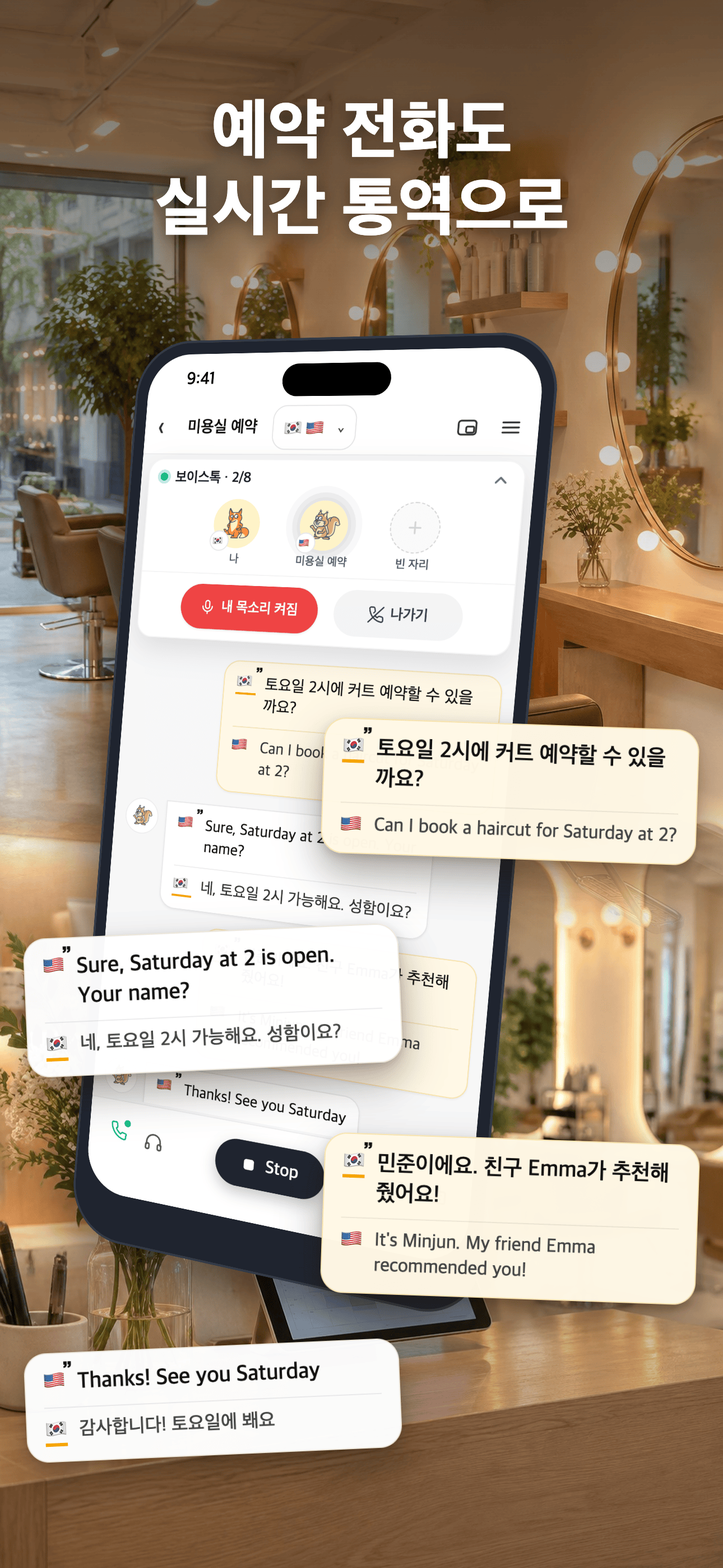
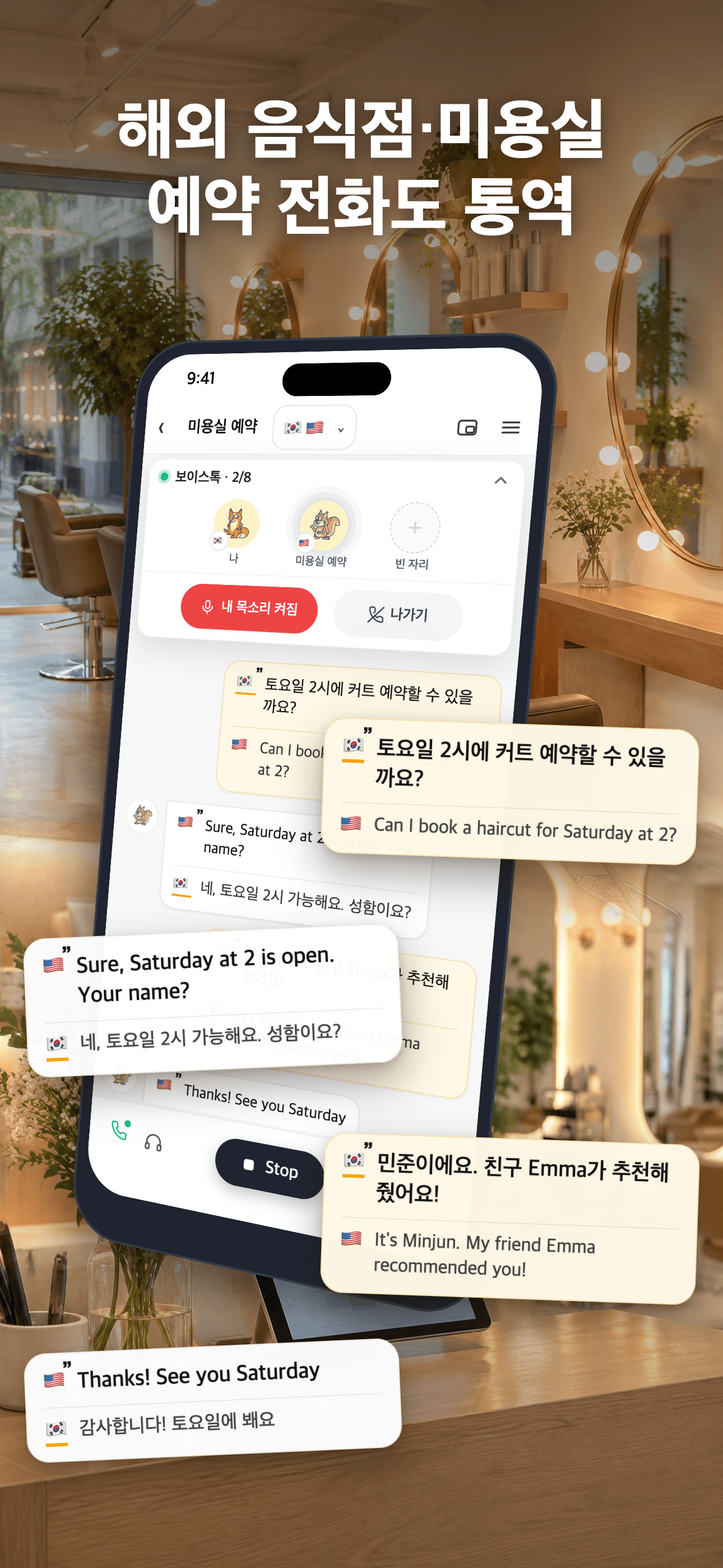
Booking caption in Korean: 해외 음식점·미용실 예약 전화도 통역 (store screenshot 06, store copy, legal site)

Changed region(s): [[0.155, 0.0622, 0.8372, 0.1556], [0.9922, 0.6534, 1.0, 0.6845], [0.3101, 0.3112, 0.3411, 0.3423]]

diff --git a/mingle-app/public/legal/index.html b/mingle-app/public/legal/index.html
@@ -1826,7 +1826,7 @@
             "shots": {
               "dm": "외국어 몰라도<br />외국인 친구랑 톡",
               "voice": "보이스톡 동시통역<br />각자 자기 말로 통화해요",
-              "booking": "해외 스시집·음식점<br />예약 전화도 통역",
+              "booking": "해외 음식점·미용실<br />예약 전화도 통역",
               "comments": "모든 글과 댓글이<br />자동으로 번역돼요",
               "game": "외국인 친구들과 게임 한판<br />Hash Rush"
             }
